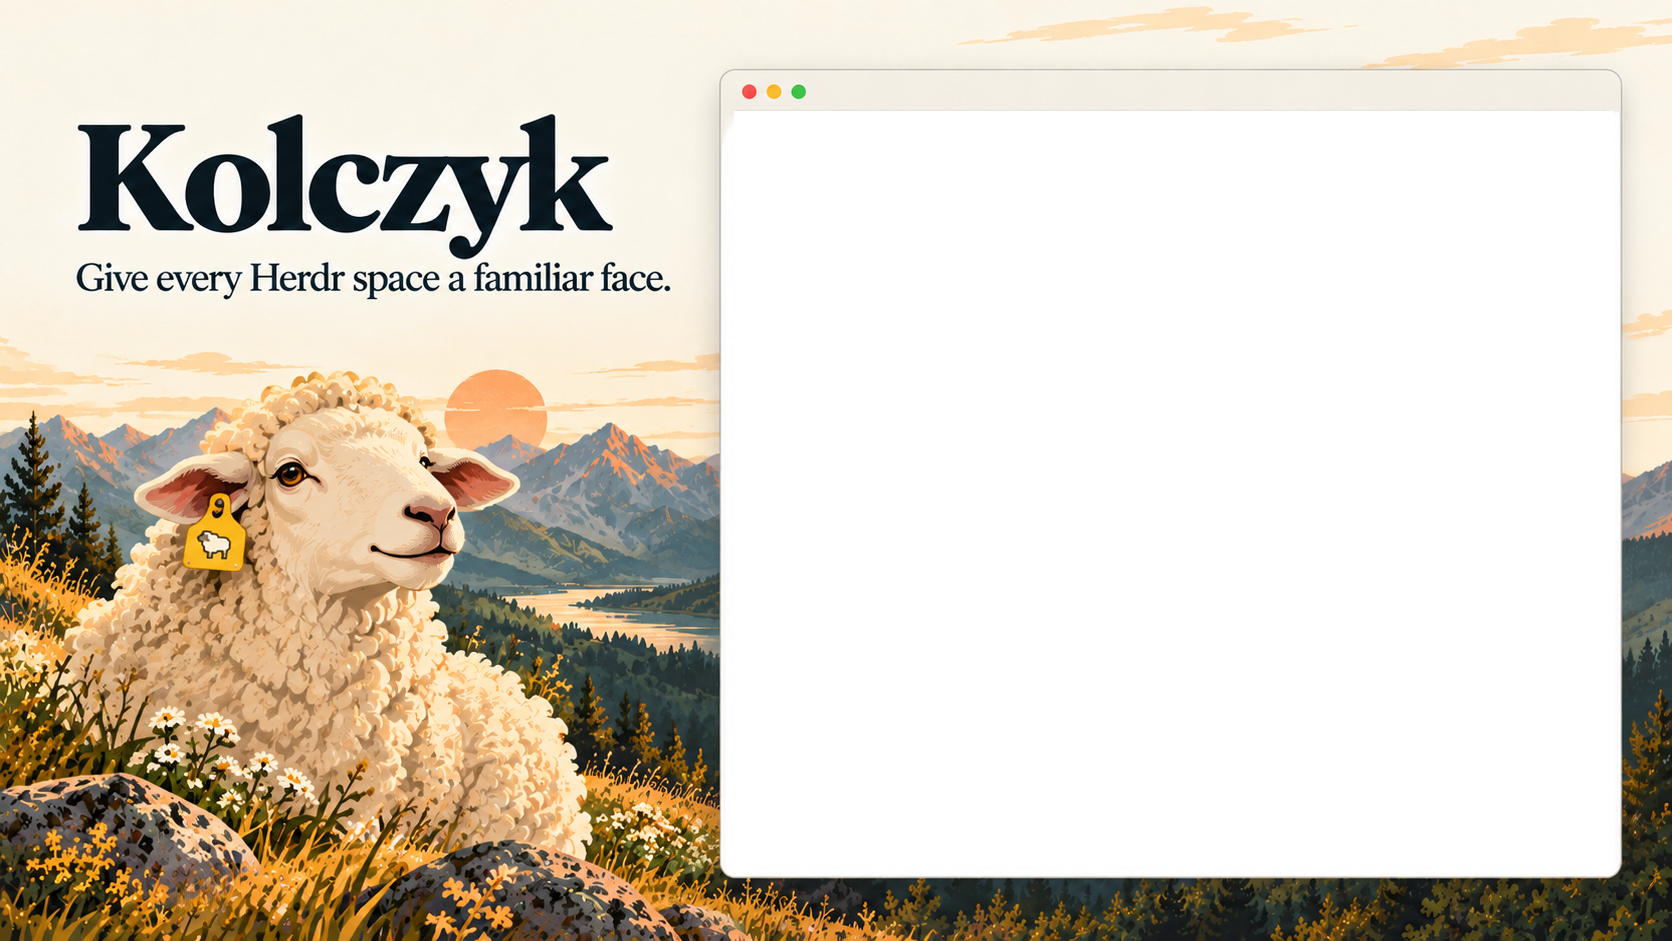
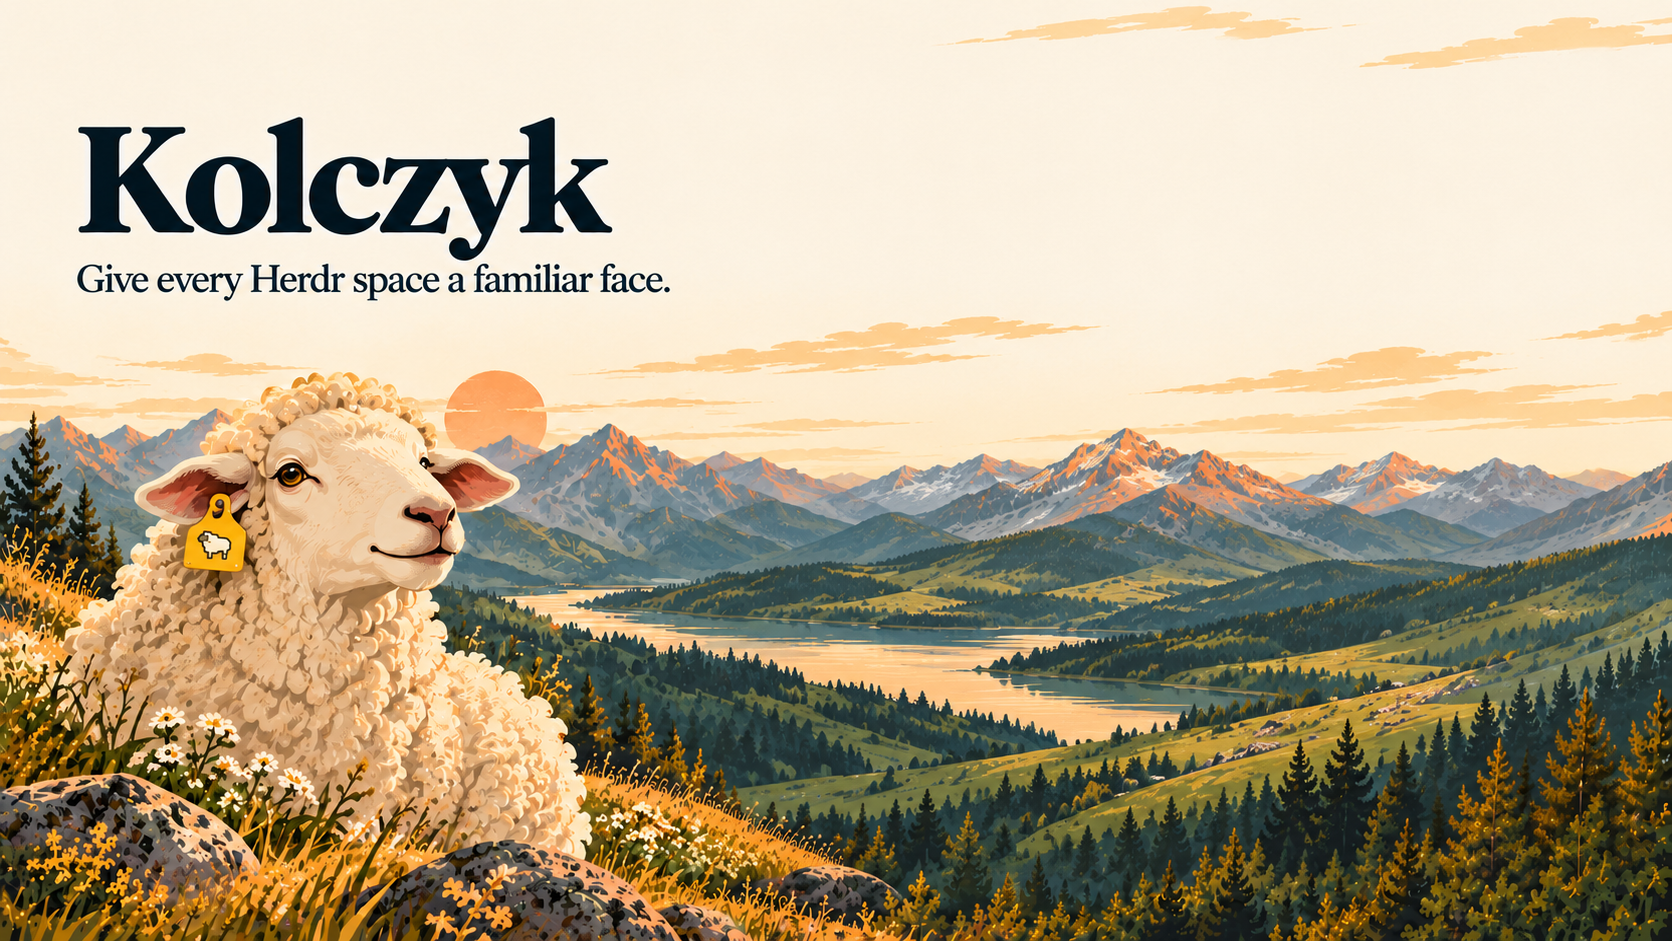
docs: refresh Kolczyk copy and preview composition

diff --git a/README.md b/README.md
@@ -1,26 +1,30 @@
-# Kolczyk - Space icons
+# Kolczyk: icons and colors for your Herdr spaces
 
-**Give each space its own icon and color. Find the right one at a glance.**
+Give your Herdr spaces icons and colors you can recognize while switching
+between projects. Use a project's own favicon, pick a symbol from the bundled
+icon libraries, or choose an emoji, initials or an image of your own. Kolczyk
+shows your choices in the spaces sidebar and compact rail.
 
-Kolczyk is a native Herdr mod that puts project icons, emoji and little personal
-touches in your spaces sidebar. Right-click a space, choose **Change icon…**,
-and make it easier to spot among the rest of your work.
+Right-click a space and choose **Change icon…** to open the native picker.
+Try a background color and shape, then adjust the symbol's size and position
+with a preview of how it will look in the sidebar. Save when it looks right,
+or cancel to keep the icon you had.
 
-![Kolczyk's native space-icon picker in Herdr](preview.png)
+![Kolczyk's native picker beside spaces named Moonshot, Wildflower, Northstar, Field Notes and Campfire with custom icons](preview.png)
 
-*A real native picker screenshot, arranged for presentation.*
+*Real native picker and sidebar screenshots, arranged on an illustrated background.*
 
-## A small detail, your way
+## Choose how each space looks
 
-- **Let the project introduce itself.** Automatic finds a local project favicon
+- Automatic finds a local project favicon
   and falls back to initials when there isn't one.
-- **Pick a symbol.** Browse Lucide, Feather and Hugeicons Free, with offline
+- Browse Lucide, Feather and Hugeicons Free, with offline
   search, categories and a Popular shortlist. Or use an emoji, a one- or
   two-character monogram, or your own image.
-- **Make it fit.** Choose colors and a circle, square or rounded-square
+- Choose colors and a circle, square or rounded-square
   background. Adjust the symbol's size and position while previewing it at
   sidebar size.
-- **Keep it familiar.** The picker follows Herdr's theme and works with both
+- The picker follows Herdr's theme and works with both
   the full sidebar and compact rail. **Default Herdr** restores the stock marker.
 
 Everything is rendered with native GPUI controls. Icon libraries are bundled;
@@ -88,9 +92,9 @@ keyboard controls, backups and removal.
 
 ## Why “Kolczyk”?
 
-*Kolczyk* is Polish for an earring—and for an animal's ear tag. Herdr has a
-flock; this mod gives each sheep a recognizable tag. A small mark to help you
-find the space you meant.
+*Kolczyk* is Polish for an earring and for an animal's ear tag. Herdr has a
+flock; this mod gives each sheep a recognizable tag so you can find the space
+you meant.
 
 ## Credits
 

diff --git a/docs/publishing.md b/docs/publishing.md
@@ -27,12 +27,12 @@ is required.
 
 Suggested description:
 
-> Give each space its own icon and color. Find the right one at a glance.
+> Give your Herdr spaces recognizable icons and colors. Choose a project favicon, a bundled icon, emoji, initials or your own image, with a native picker and a preview at sidebar size.
 
 Topics: `herdr-mod`, `herdr`, `gpui`, `customization`, `icons`, `windows`, `linux`, `macos`.
 The `herdr-mod` topic is required for directory discovery.
 
-Use `preview.png` as the repository social preview. It combines an illustrated mountain scene with a real native picker screenshot. The uncomposed screenshot and illustration background are in `docs/images/`. Regenerate the presentation image with:
+Use `preview.png` as the repository social preview. It combines an illustrated mountain scene with real native picker and sidebar screenshots. The sidebar shows five spaces created for the presentation: Moonshot, Wildflower, Northstar, Field Notes and Campfire. The original screenshots and illustration background are in `docs/images/`. Regenerate the presentation image with:
 
 ```powershell
 powershell.exe -NoProfile -File scripts/create-preview.ps1
@@ -42,7 +42,7 @@ powershell.exe -NoProfile -File scripts/create-preview.ps1
 
 1. Run `npm test` and `powershell.exe -NoProfile -File scripts/check.ps1`.
 2. Review the README, recipe, licenses and screenshots. Keep `.tmp/` and local
-   Herdr state out of Git; the screenshots contain only the picker.
+   Herdr state out of Git; screenshots contain only the picker and presentation spaces.
 3. Commit the prepared files and push the intended branch to GitHub.
 4. With the owner's explicit approval, make the repository public and apply the
    description and topics above. Check that the default branch contains the
@@ -57,7 +57,7 @@ must be checked after publication. Herdr does not review community mods.
 ## Updating the screenshots
 
 Capture the running native picker with `herdr-app shot`. Crop tightly around
-the dialog before placing screenshots in `docs/images/`; exclude terminals,
-project paths and unrelated spaces. Use a draft appearance and cancel afterward
+the dialog or presentation spaces before placing screenshots in `docs/images/`;
+exclude terminals, project paths and unrelated spaces. Use a draft appearance and cancel afterward
 so presentation work does not change the user's saved icon. Keep the screenshot
 and README aligned with the shipped behavior.

diff --git a/RECIPE.md b/RECIPE.md
@@ -1,6 +1,6 @@
-# Kolczyk - Space icons
+# Kolczyk: icons and colors for your Herdr spaces
 
-Give each space its own icon and color. Find the right one at a glance.
+Give your Herdr spaces icons and colors you can recognize while switching between projects. Use a project's own favicon, browse the bundled Lucide, Feather and Hugeicons libraries, or choose an emoji, initials or an image of your own. Right-click a space to open the native picker, try a background color and shape, and adjust the symbol with a preview at sidebar size. Your choices appear in both the spaces sidebar and compact rail, so the projects you use every day are easier to spot.
 
 A native Herdr space-icon picker. Right-click a space, choose **Change icon…**,
 then select Default Herdr, Automatic, a Lucide, Feather or Hugeicons icon, emoji, monogram or imported
